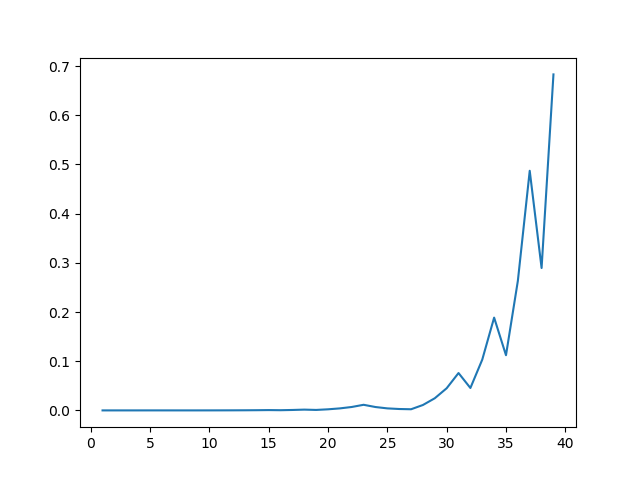
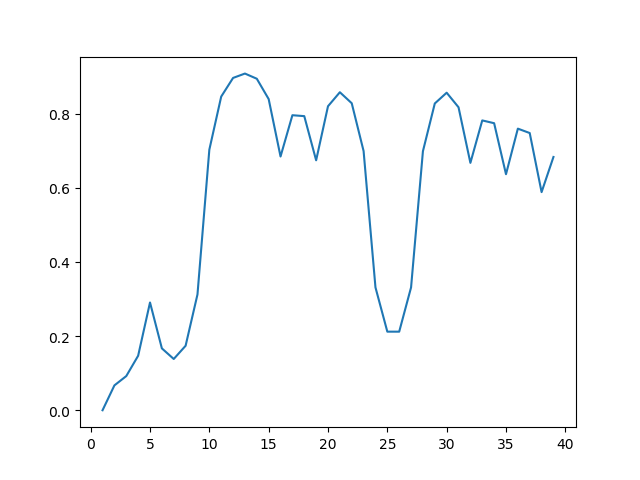
fixed issue in betta calculation

diff --git a/HMM/algorithm.py b/HMM/algorithm.py
@@ -25,8 +25,8 @@ def backward(X, ls, ks, pi, A, B):
     # initialization
     betas[-1, :] = 1
     # iteration
-    for t in range(X.shape[0]-1-1, 0, -1):
-        betas[t,:] = np.sum( A[:,:] * np.power(B[:,:], X[t+1,:])* betas[t+1, :] , axis=0)
+    for t in range(X.shape[0]-1-1, -1, -1):
+        betas[t,:] = np.sum( A[:,:] * np.prod(np.power(B[:,:], X[t+1,:]), axis=1) * betas[t+1, :] , axis=1)
     return betas
 
 
@@ -53,11 +53,15 @@ def algo(q, Y):
     P = np.sum(alphas[-1, :])
     p = alphas[-1, 1] * betas[-1, 1] / P
     ps = np.zeros((39))
-    ps[0] = (alphas[0,1] * betas[0,1]) / (np.sum(alphas[0,:]))
+    # ps[0] = (alphas[0,1] * betas[0,1]) / (np.sum(alphas[0,:]))
+    # ps[0] = (alphas[0,1] * betas[0,1]) / P
+    ps[0] = 0.0
     for n in range(1, ps.shape[0]):
-        P_tmp = np.sum(alphas[n, :])
-        ps[n] = alphas[n, 1] * betas[n, 1] / P_tmp
+        # P_tmp = np.sum(alphas[n, :])
+        ps[n] = alphas[n, 1] * betas[n, 1] / P
+    print(ps)
     plt.plot(np.linspace(1,39,39), ps)
     plt.show()
+    np.save("probs_{}".format(q), ps)
 
     return p, fig

diff --git a/HMM/plot_compare.py b/HMM/plot_compare.py
@@ -1,0 +1,21 @@
+import matplotlib.pyplot as plt
+import numpy as np
+
+
+ps7 = np.load("probs_0.7.npy")
+ps9 = np.load("probs_0.9.npy")
+wks = np.linspace(1,39,39)
+# plotting the line 1 points
+plt.plot(wks, ps7, label = "q=0.7")
+# plotting the line 2 points
+plt.plot(wks, ps9, label = "q=0.9")
+plt.xlabel('weeks')
+# Set the y axis label of the current axis.
+plt.ylabel('P')
+# Set a title of the current axes.
+# plt.title('Two or more lines on same plot with suitable legends ')
+# show a legend on the plot
+plt.legend()
+# Display a figure.
+plt.savefig("0.7_0.9_compare.png")
+plt.show()

diff --git a/HMM/homework4.py b/HMM/homework4.py
@@ -6,6 +6,7 @@ mat = mat['price_move']
 
 for q in [0.7, 0.9]:
     p, fig = algo(q, mat)
-    
+
     fig.savefig('./'+str(q)+'.png')
     print('p: %.4f q: %.4f' % (p, q))
+
